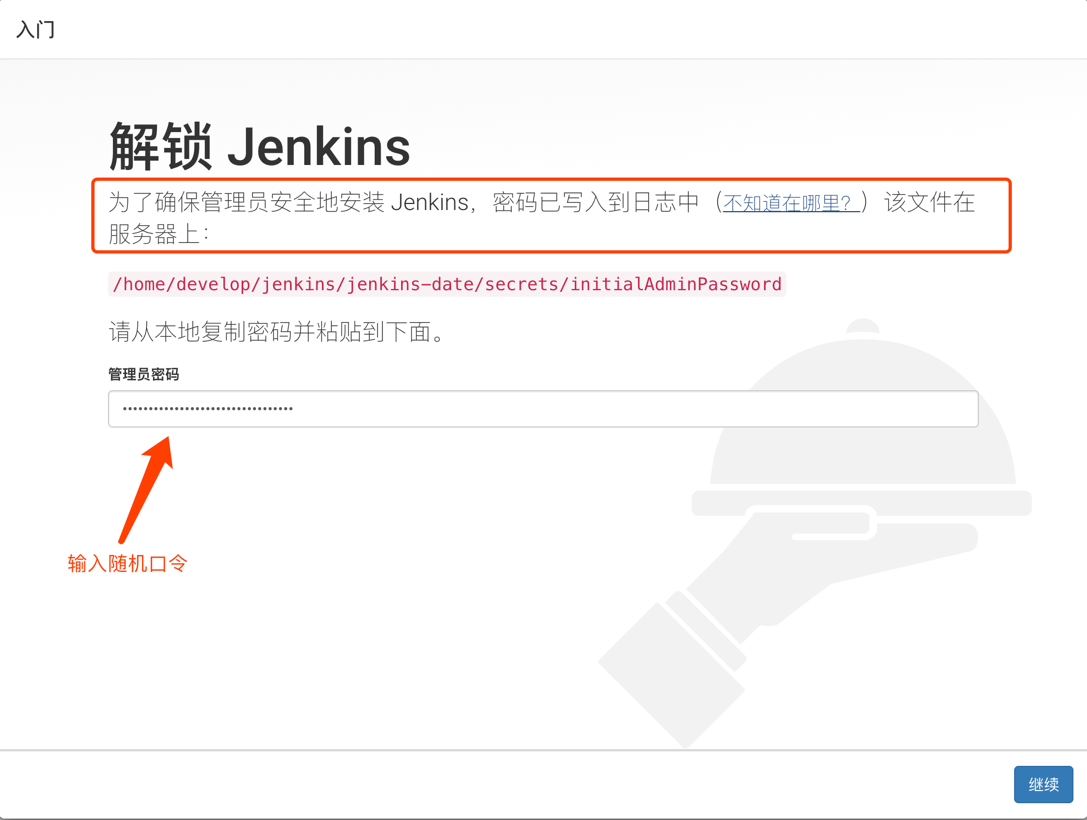
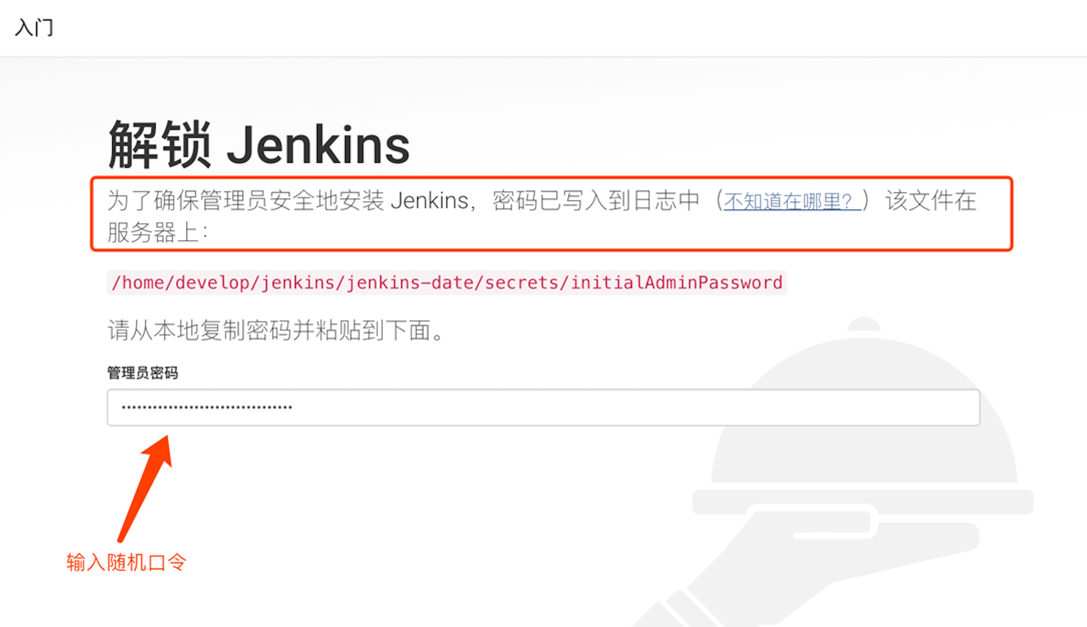
Jenkins持续集成环境搭建初稿202001031132

diff --git a/_posts/2020-01-02-jenkins-summary.md b/_posts/2020-01-02-jenkins-summary.md
@@ -51,10 +51,10 @@ tags: [Jenkins]
 
 &emsp;&emsp;Jenkins是基于Java开发的一种持续集成工具，用于监控持续重复的工作，下载地址请[点击这里](https://jenkins.io/zh/download/ "Jenkins下载地址")。Jenkins提供了Windows、Linux和OS X平台的安装包。最简便的还是使用提供的war包直接启动，但是此时必须保证系统中已经安装了jdk，最好是 jdk1.5以上。
 
-### Jenkins安装与配置
+### 安装Jenkins
 &emsp;&emsp;我这里展示的是直接运行war包的方式，其它安装方式请[点击这里](https://jenkins.io/zh/doc/book/getting-started/ "官方参考文档")参考官方文档。
 
-#### 初始化Jenkins和管理员用户
+#### 1、启动Jenkins
 &emsp;&emsp;下载好jenkins.war包之后，切换到下载目录，然后执行如下命令：
 
 >&emsp;`在启动之前要确保jdk环境已经准备完成。`默认情况下端口是8080，如果要使用其他端口启动，可以通过命令行"java -jar jenkins.war --ajp13Port=-1 --httpPort=8081 > log_jenkins.log 2>&1 &"的方式修改
@@ -62,16 +62,25 @@ tags: [Jenkins]
 ```
   java -jar jenkins.war > log_jenkins.log 2>&1 &
 ```
-&emsp;&emsp;Jenkins的工作目录，默认是：/root/.jenkins。
+&emsp;&emsp;Jenkins的工作目录，默认是：/用户名/.jenkins。
 也可以自定义Jenkins的工作目录，设置JENKINS_HOME环境变量，启动 jenkins.war后将被解压到JENKINS_HOME目录下，同时所有Jenkins的 plugins和配置文件等也将被写入到JENKINS_HOME所设置的目录下。
 
 &emsp;&emsp;启动以后通过查看日志输出，可以发现生成的有随机口令
 
 ![随机口令](https://howdypl.github.io/img/jenkins/jenkins-1.png "随机口令"){:height="100%" width="100%"}
 
-&emsp;&emsp;第一次启动Jenkins时，出于安全考虑，Jenkins会自动生成一个随机的安装口令。注意控制台输出的口令，复制下来。在浏览器中输入地址：http://localhost:8080/
+#### 2、网页打开配置
 
-![随机口令](https://howdypl.github.io/img/jenkins/jenkins-2.png "随机口令"){:height="100%" width="100%"}
+- **第一次启动Jenkins时，出于安全考虑，Jenkins会自动生成一个随机的安装口令。**
+注意控制台输出的口令，复制下来。在浏览器中输入地址：http://localhost:8080/
+
+![解锁Jenkins](https://howdypl.github.io/img/jenkins/jenkins-2.png "解锁Jenkins"){:height="100%" width="100%"}
+
+- **选择需要安装的插件**
+选择默认推荐即可，会安装通用的社区插件，剩下的可以在使用的时候再进行安装。
+
+![安装插件](https://howdypl.github.io/img/jenkins/jenkins-3.png "安装插件"){:height="100%" width="100%"}
+
 
 ## 配置Jenkins从节点
 
